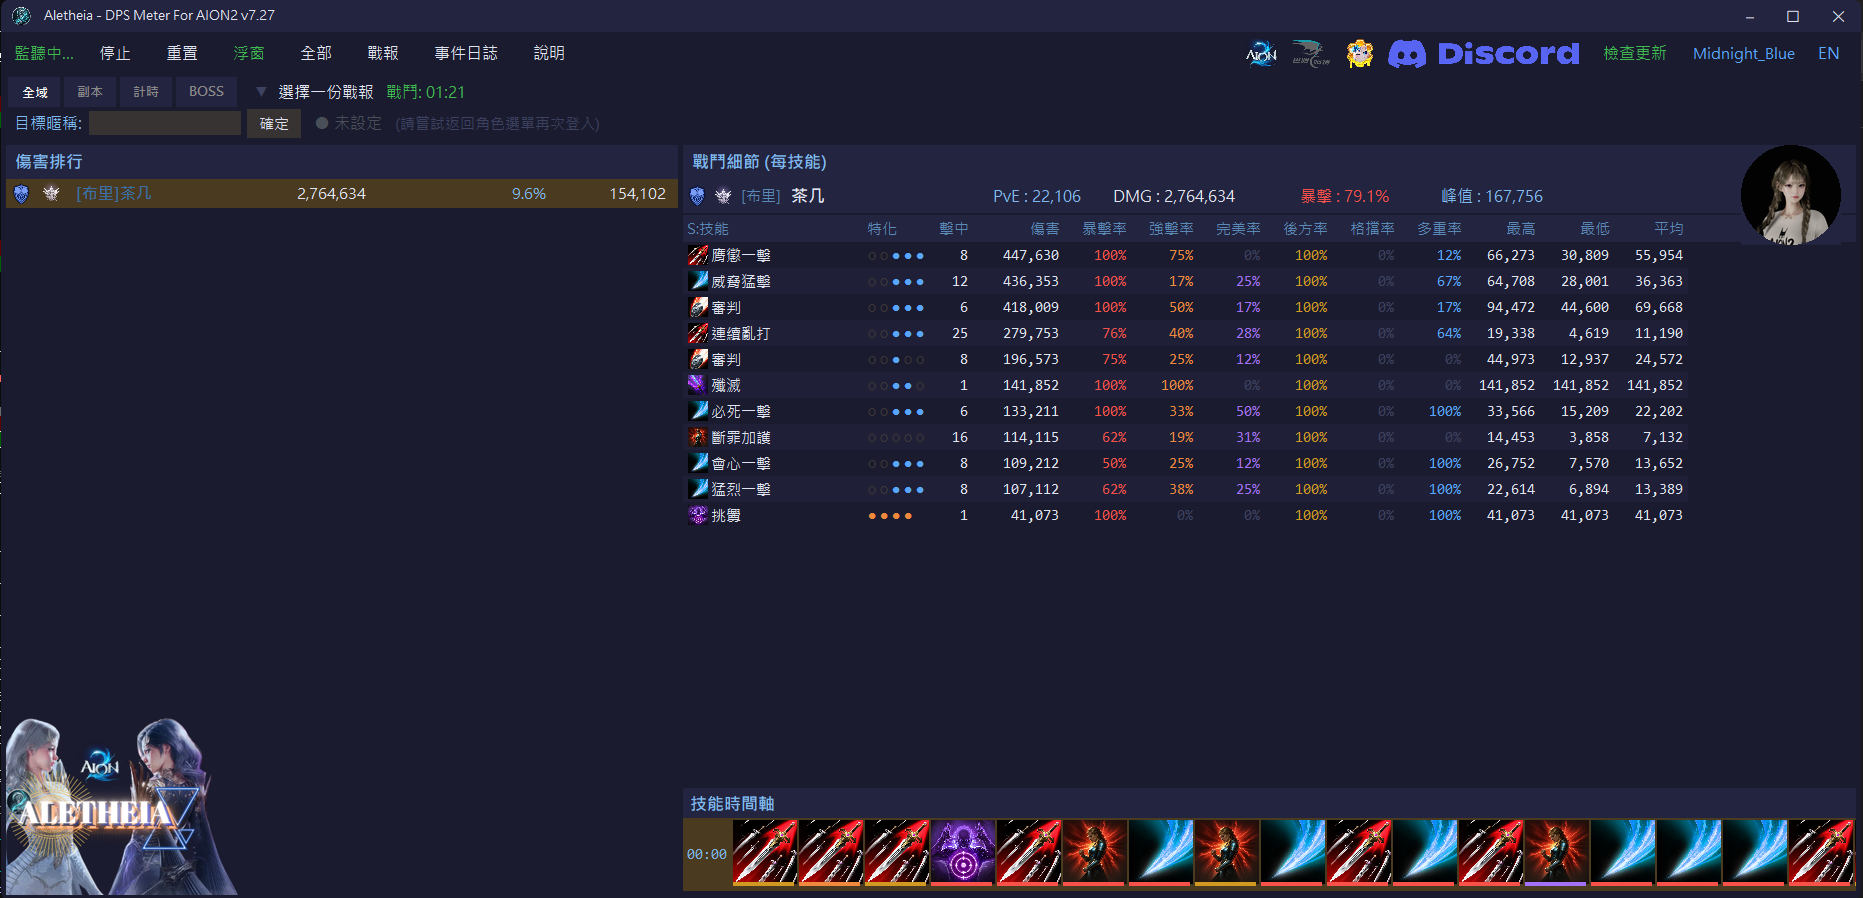
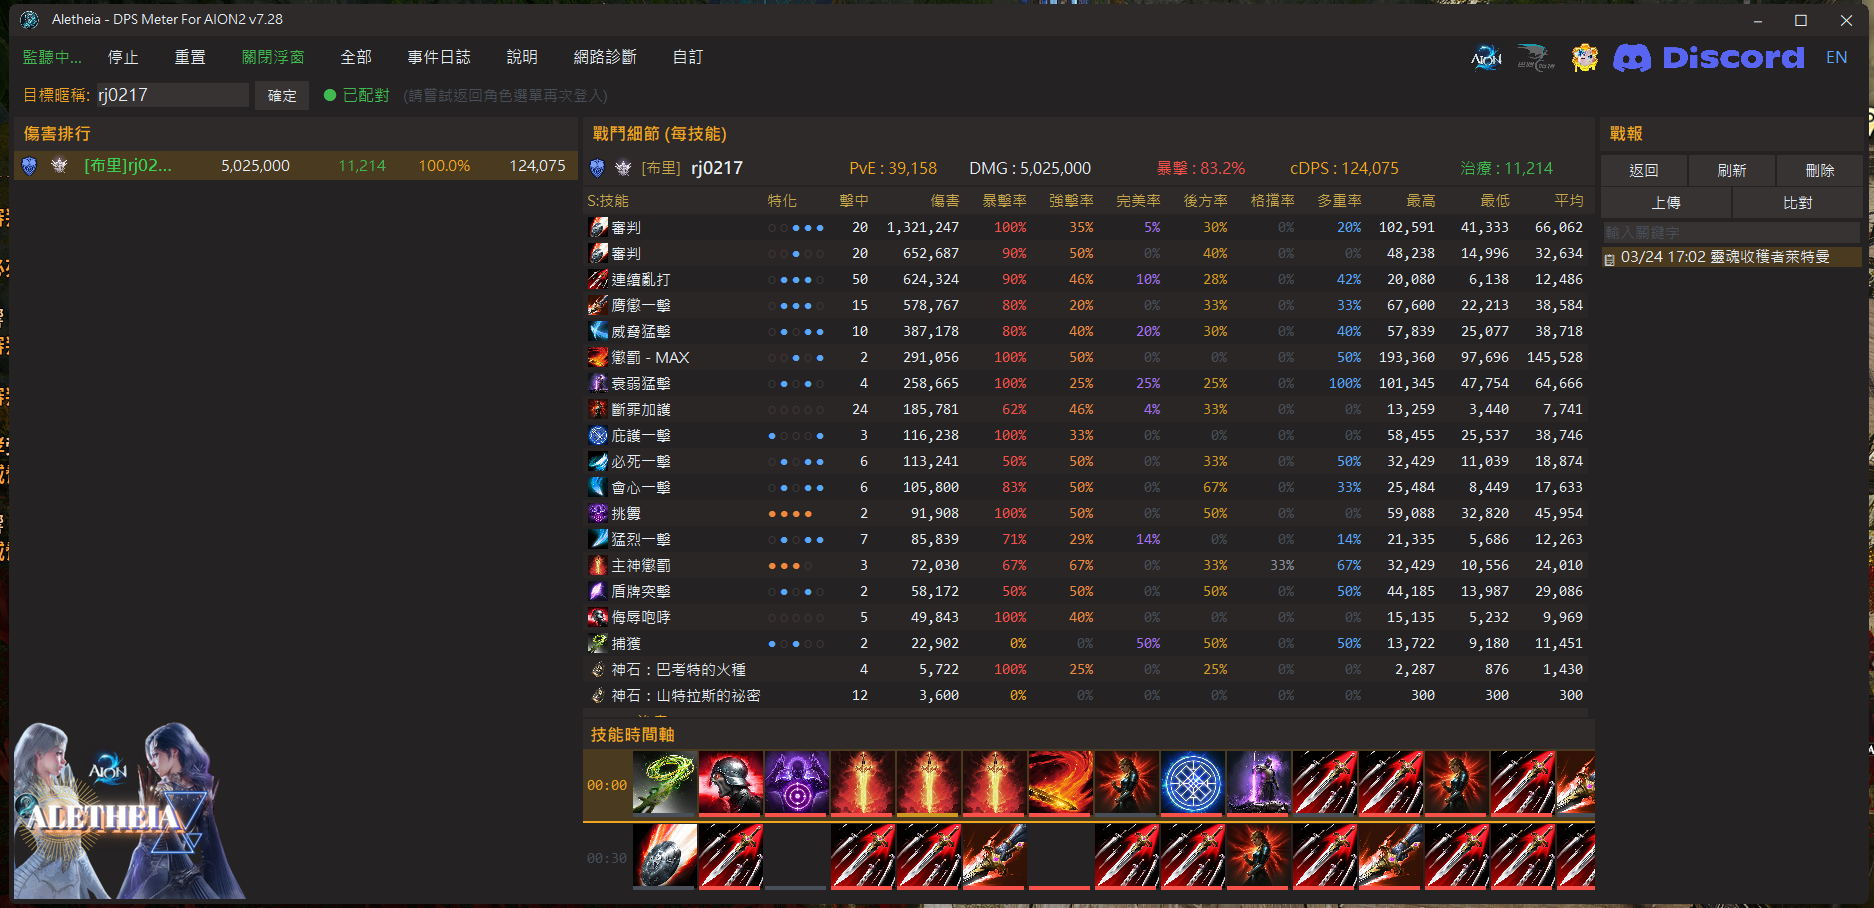
v7.29: update README, CHANGELOG, and screenshots

diff --git a/README_EN.md b/README_EN.md
@@ -4,7 +4,7 @@ A non-invasive, real-time DPS meter for AION2 (Aion: Legions of War, TW server).
 
 Calculates combat data in real time via passive network packet sniffing — **no memory modification, no packet tampering, no automation of any kind**.
 
-![Main Window — Dungeon Rankings + Skill Breakdown + Timeline](images/mainwindow_en.png)
+![Tool Suite — Main Window + Overlay + Diagnostics + Customizer](images/allunit_en.png)
 
 ---
 
@@ -18,11 +18,13 @@ Calculates combat data in real time via passive network packet sniffing — **no
 
 ### Real-Time Overlay
 - Fully Canvas-rendered, high performance with zero lag
-- Rounded semi-transparent overlay with custom background image support
+- Semi-transparent overlay with custom background image support
 - Normal / Mini size toggle (right-click menu)
-- Dual-line title (name + timer/damage)
-- Class-colored DPS bars + faction icons (Elyos / Asmodian)
+- Right-click to switch display modes (total damage/percentage, DPS format)
+- **Hover Skill Panel** — hover over a player's rank row to see full skill breakdown
+- Class-colored DPS bars + text shadows + faction icons (Elyos / Asmodian)
 - Pairing status indicator + real-time network latency (RTT)
+- Persistent settings (opacity/size/display mode auto-saved)
 
 ### In-Game Screenshots
 
@@ -34,18 +36,29 @@ Calculates combat data in real time via passive network packet sniffing — **no
 - Skill breakdown: damage share, crit rate, average hit, specialization indicators
 - Skill timeline: cast sequence tracking for rotation and combo analysis
 - Report system: auto-generated reports on dungeon/boss/timer session finalization
+- **Report Panel** — built-in panel with search/filter/upload
+- **Report Upload** — one-click upload to Eternal Hive for sharing
 - Summon damage automatically merged under the summoner
+- Healing skills tracked in a separate section (damage/healing don't overlap)
 
-![Main Window — Combat Details](images/mainwindow_en2.png)
+![Overlay Hover Skill Panel — In-Game Screenshot](images/overlayer_detail.png)
+
+### Report Upload
+
+Upload combat reports to Eternal Hive for detailed analysis and skill timelines:
+
+| Report Overview | Skill Timeline |
+|:---:|:---:|
+| ![Hive Report](images/hive_report.png) | ![Skill Timeline](images/hive_report2.png) |
 
 ### Additional Features
 - Eternal Hive PvE score / avatar API integration
 - Server identification (36 servers)
 - JSON theme system (colors, fonts, backgrounds)
+- **Aletheia Customizer** — standalone settings tool (overlay config/theme management/hotkey recording)
 - Universal accelerator support (ExitLag / UU / Razer / GearUP / LagoFast)
 - Auto character detection (automatically identifies your character on login)
 - System tray icon (closing main window keeps app running; double-click to restore)
-- Auto-update system
 
 ---
 
@@ -64,9 +77,10 @@ Calculates combat data in real time via passive network packet sniffing — **no
 ### Global Hotkeys
 | Hotkey | Function |
 |--------|----------|
-| `Alt+Q` | Start / Stop monitoring |
-| `Alt+E` | Show / Hide overlay |
-| `Alt+D` | Show / Hide main window |
+| `Alt+Q` | Show / Hide overlay |
+| `Alt+E` | Show / Hide main window |
+
+> Hotkeys are customizable via Aletheia Customizer or settings.json.
 
 ---
 
@@ -78,11 +92,11 @@ A: Make sure Npcap is installed (WinPcap-compatible mode), the application is ru
 
 **Q: Latency shows a value but there is no damage data?**
 
-A: v7.28 automatically supports most game accelerators. If issues persist, use the included "Aletheia Network Diagnostic Tool" for self-diagnosis. See the TROUBLESHOOTING guide for details.
+A: v7.29 automatically supports most game accelerators. If issues persist, use the included "Aletheia Network Diagnostic Tool" for self-diagnosis.
 
 **Q: How accurate is the data?**
 
-A: This tool uses non-invasive packet analysis; accuracy depends on packet identification. Godstone damage is included in totals.
+A: v7.29 added LZ4 compressed packet decompression, fixing incomplete damage data in multi-player scenarios. Godstone and summon damage are included in totals.
 
 ---
 

diff --git a/README.md b/README.md
@@ -6,7 +6,7 @@
 
 透過網路封包分析（Passive Sniffing）技術即時計算戰鬥數據，**不修改遊戲記憶體、不竄改封包、不具備自動化操作功能**。
 
-![主視窗 — 副本排名 + 技能明細 + 時間軸](images/mainwindow_zh.png)
+![工具全覽 — 主視窗 + 浮窗 + 診斷工具 + Customizer](images/allunit_zh.png)
 
 ---
 
@@ -20,11 +20,13 @@
 
 ### 即時浮窗 (Overlay)
 - 全 Canvas 化渲染，高效能零延遲
-- 圓角半透明浮窗，支援自訂背景圖
+- 半透明浮窗，支援自訂背景圖
 - Normal / Mini 兩種尺寸切換（右鍵選單）
-- 雙行標題（名稱 + 計時/傷害）
-- 職業色計量條 + 種族圖標（天族/魔族）
+- 右鍵切換顯示模式（總傷害/百分比、DPS 格式）
+- **Hover 技能面板** — 滑鼠懸停排名列即時彈出完整技能明細
+- 職業色計量條 + 文字陰影 + 種族圖標（天族/魔族）
 - 配對狀態燈 + 網路延遲 RTT 顯示
+- 設定持久化（透明度/尺寸/顯示模式自動記憶）
 
 ### 遊戲內實際畫面
 
@@ -36,18 +38,29 @@
 - 技能明細：傷害佔比、暴擊率、平均命中、特化燈號
 - 技能時間軸：施放順序紀錄，確認操作手法與連招
 - 戰報系統：副本/BOSS/計時模式結算自動產生戰報
+- **戰報面板** — 主視窗常駐面板，搜尋/篩選/上傳一站完成
+- **戰報上傳** — 一鍵上傳至永恆蜂窩，分享戰鬥數據
 - 召喚物傷害自動合併至主人名下
+- 治癒技能獨立分區統計（傷害/治癒不互相擠壓）
 
-![主視窗 — 戰鬥細節 + 浮窗同框](images/mainwindow_overlayer.png)
+![浮窗 Hover 技能面板 — 遊戲內實機畫面](images/overlayer_detail.png)
+
+### 戰報上傳
+
+上傳戰報至永恆蜂窩，查看完整分析與技能時間軸：
+
+| 戰報總覽 | 技能時間軸 |
+|:---:|:---:|
+| ![蜂窩戰報](images/hive_report.png) | ![技能時間軸](images/hive_report2.png) |
 
 ### 其他
 - 永恆蜂窩 PvE 評分 / 頭像 API 查詢
 - 伺服器識別（36 伺服器）
 - JSON 自訂主題系統（顏色、字體、背景）
+- **Aletheia Customizer** — 獨立設定工具（浮窗設定/主題管理/熱鍵錄製）
 - 通用加速器相容（ExitLag / UU / 雷神 / GearUP / LagoFast）
 - 自動角色偵測（進入遊戲後自動識別暱稱）
 - 系統匣常駐（關閉主視窗不退出，雙擊圖示叫回）
-- 自動更新系統
 
 ---
 
@@ -66,9 +79,10 @@
 ### 全域快捷鍵
 | 快捷鍵 | 功能 |
 |--------|------|
-| `Alt+Q` | 開始 / 停止監測 |
-| `Alt+E` | 顯示 / 隱藏浮窗 |
-| `Alt+D` | 顯示 / 隱藏主視窗 |
+| `Alt+Q` | 顯示 / 隱藏浮窗 |
+| `Alt+E` | 顯示 / 隱藏主視窗 |
+
+> 快捷鍵可透過 Aletheia Customizer 或 settings.json 自訂。
 
 ---
 
@@ -80,11 +94,11 @@ A: 請確認已安裝 Npcap（WinPcap 相容模式）、以管理員身分執行
 
 **Q: 延遲有數值但完全沒有傷害數據？**
 
-A: v7.28 已自動相容大部分加速器。若仍有問題，請使用隨附的「Aletheia 網路診斷工具」進行自檢。詳見 TROUBLESHOOTING 指南。
+A: v7.29 已自動相容大部分加速器。若仍有問題，請使用隨附的「Aletheia 網路診斷工具」進行自檢。
 
 **Q: 數據準確嗎？**
 
-A: 本工具採非侵入式封包分析，數據精確度取決於封包識別。神石傷害已計入總量。
+A: v7.29 加入 LZ4 壓縮封包解壓，修復了多人場景傷害數據不完整的問題。神石傷害、召喚物傷害均已計入總量。
 
 ---
 

diff --git a/CHANGELOG.md b/CHANGELOG.md
@@ -1,5 +1,60 @@
 # Changelog
 
+## v7.29 (2026-03-24)
+
+### 核心引擎
+- LZ4 壓縮封包解壓 — 遊戲高頻場景使用壓縮封包，v7.28 無法解析導致多人場景傷害丟失約 15%。v7.29 完整解壓後已修復該問題。
+- 移除應用層去重 — 結構化 walker 不產生重複，舊去重機制反而誤殺合法多段命中
+- Walker 長度上限擴展（500 → 65535），支援大型壓縮封包
+- Npcap kernel 丟包診斷（pcap_stats），確認封包擷取完整性
+
+### 治癒系統
+- 治癒判定重寫 — 移除 unknown≥13000 門檻，修復 22% 治癒技能漏接
+- 複合技能支援 — 同一技能的傷害/治癒分開統計，不再互相覆蓋
+- 集氣技能後綴 — 自動顯示 II / III / MAX 階段標記
+
+### 浮窗 Hover 技能面板（新功能）
+- 浮窗排名列 Hover 時彈出完整技能明細（13 欄 × 46 行）
+- 傷害 + 治癒分區顯示，含蜂窩 PVE 評分
+- 全 Canvas 預建，零延遲彈出
+
+### 主視窗戰報面板（新功能）
+- 右側常駐戰報面板取代舊版下拉選單
+- 搜尋篩選器 — 即時搜尋 BOSS 名/暱稱/職業/伺服器
+- 戰報上傳 — 一鍵上傳至永恆蜂窩，含同意書流程
+- 排名高亮 — 選中玩家以背景色標示
+
+### 浮窗 UI 精修
+- 右鍵選單切換顯示模式（總傷害：數值/百分比、DPS：K/s/經典）
+- 設定持久化至 settings.json（透明度/尺寸/顯示模式）
+- 文字陰影三方向 + 量條 30% 黑色混合，提升可讀性
+- 方框邊框取代圓角（消除 Canvas arc 鋸齒）
+- 系統匣深色模式
+
+### 資料擴充
+- NPC 資料庫：1,583 → 6,365 筆（合併開源競品資料）
+- BOSS 白名單：554 → 953 筆
+- 神石顯示修復 — 封包 7 位碼 / JSON 8 位碼雙索引
+- 特殊技能統一 — 召喚物 + 神石合併為 `special_skills.json`
+
+### 工具
+- Aletheia Customizer — 獨立設定工具（浮窗設定/主題管理/熱鍵錄製/中英切換）
+- UI 技術棧驗證 — tkinter Canvas / CustomTkinter / Dear PyGui / pywebview 四方案評估
+
+### 修復
+- 修正：浮窗/主視窗配對燈號不同步
+- 修正：戰報模式技能時間軸不斷跳動（靜態 JSON 重繪問題）
+- 修正：ExitLag 自迴圈連線干擾代理偵測
+- 修正：高頻場景事件佇列溢出（移除上限 + 消費預算提升 4 倍）
+- 修正：副本模式新增每日副本排除
+
+### 其他
+- 熱鍵預設調整：Alt+Q 浮窗、Alt+E 主視窗（支援自訂）
+- 死碼清理約 850 行 + 9 個檔案未使用 import 清理
+- 新增依賴：lz4
+
+---
+
 ## v7.28 (2026-03-21)
 
 ### 新功能
